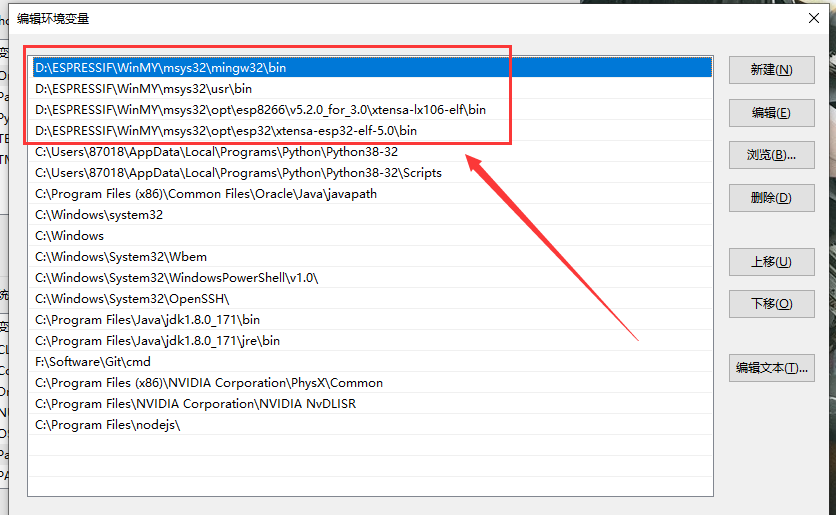
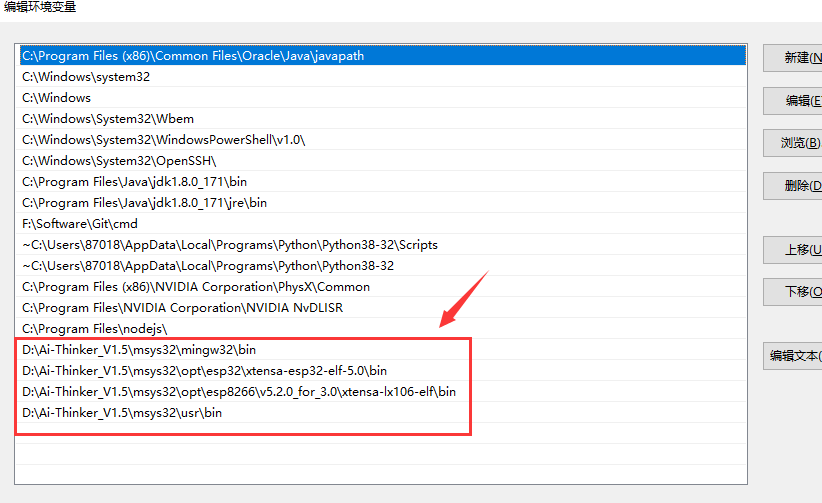
update

diff --git a/docs/2.device/configuration_windows.md b/docs/2.device/configuration_windows.md
@@ -14,20 +14,40 @@
 
 # 二 下载 IDE V1.5
 
-我们已经封装了 `ESP8266/ESP32` 的 GUI 开发环境，您只需要下载无脑式安装即可；
+&nbsp;&nbsp;&nbsp;&nbsp; 最近的百度网pan的下载速度一度再下降，为了换个方式存储IDE，所以，我们放在了群文件(最下面有加群方式)里面了。不过安装前，务必注意：
 
-安装完毕之后，我们需要添加几个环境变量到系统，下面路径根据您的安装路径有所改变：
+&nbsp;&nbsp;&nbsp;&nbsp; **第一点**：因为新版的IDE安装过程中会给电脑配置环境变量，所以，安装了**0.5或1.0**版本的朋友，请主动自行在电脑环境变量删除有关的`PATH`变量值，包含 `AiThinkerIDE_V1.0` 关键字的，比如：
 
 ```C
+Ai-Thinker\AiThinkerIDE_V1.0\msys32\mingw32\bin
+```
+&nbsp;&nbsp;&nbsp;&nbsp; **第二点**：如果是采用我司的**0.5或1.0**版本来开发的项目，需自行删除工程根目录的 **.setting** 这个文件夹，因为他里面包含一些就旧工程配置。
+
+&nbsp;&nbsp;&nbsp;&nbsp; **第三点**：环境依赖的是 python2.8 环境，而且 IDE （gui 环境）自带了 python2.8的环境的，如果你电脑有 py3 的环境，建议卸载或共存处理；
+
+---------------------------------
+
+
+&nbsp;&nbsp;&nbsp;&nbsp; 安装路径不要带中文字符或带空格:
+
+![22](../_media/quick/path_set_note.png)
+
+
+-----------------
+
+&nbsp;&nbsp;&nbsp;&nbsp; 最后，我们再次检查是否会自动添加环境变量，可以在电脑环境系统PATH变量查看仅有这几个数值即可：
+
+```c
 IDE安装路径\msys32\mingw32\bin
 IDE安装路径\WinMY\msys32\usr\bin
 IDE安装路径\WinMY\msys32\opt\esp8266\v5.2.0_for_3.0\xtensa-lx106-elf\bin
 IDE安装路径\WinMY\msys32\opt\esp32\xtensa-esp32-elf-5.0\bin
 ```
 
-最后可以在电脑环境变量查看:
 
 ![22](../_media/quick/path_set.png)
+
+-------------
 
 # 三 编译一个 RTOS 操作系统代码
 
@@ -101,3 +121,109 @@ git clone --recursive https://gitee.com/xuhongv/AiThinkerProjectForESP.git
 &nbsp;&nbsp;&nbsp;&nbsp; 烧录完毕之后，日志打印会如下所示（忽略文件夹名字）：
 
 ![在这里插入图片描述](https://img-blog.csdnimg.cn/20200212162050191.png)
+
+# 四 编译 NONOS SDK V3.0/2.1.x/2.2.x版本
+
+- 事前确定电脑环境变量是否成功`PATH`配置了如下变量(根据自己电脑路径有所差异)：
+![在这里插入图片描述](https://img-blog.csdnimg.cn/20200512170449227.png)
+
+&nbsp;&nbsp;&nbsp;&nbsp;因为很多小伙伴在玩无操作系统开发（简称 **NONOS SDK**），而此 SDK 网上有2大版本流行，分别是 3.0 为一个划分界限，而我们的IDE也支持这样的开发兼容，下面先给大家讲解如何编译**NONOS 3.0 SDK**的！经测试，从仓库下载的下载的 **2.2.x** 和 **2.1.x** 分支，都可以用这个环境编译！
+
+&nbsp;&nbsp;&nbsp;&nbsp;如果你的工程较久的话，直接参考下一节的配置。
+
+&nbsp;&nbsp;&nbsp;&nbsp;首先克隆代码，这里我依然选择为用  `git` 拉取：
+```C
+git clone https://gitee.com/xuhongv/ESP8266_NONOS_SDK
+```
+### 导入步骤：
+
+ 1. 手动删除根目录下的```driver_lib```和 ```third_party```这2个文件夹；
+ 2. 然后点击C/C++分支，选择 `Existing Code as MakeFile Project` 工程;
+ 3. 复制刚刚下载文件的 `ESP8266_NONOS_SDK`的路径，import -->  Cross Gcc , 并且去掉对应的 C++ 勾勾；如下动图所示：
+
+![在这里插入图片描述](https://img-blog.csdnimg.cn/20200211180453997.gif)
+
+---------
+
+### 编译步骤：
+
+ 1. 项目属性设置，鼠标选中项目名称右键点击，在右侧菜单中选择Properties ；
+ 2. 选择Properties --> C/C++ Build --> Build command 中添加编译规则，当前硬件是 32Mbit的模块，所以这样填：( `make COMPILE=gcc BOOT=none APP=0 SPI_SPEED=40 SPI_MODE=DIO SPI_SIZE_MAP=6` )；
+ 3. 在Properties --> C/C++ Build --> Build directory 选择编译的工程路径，比如根目录下的 IoT_Demo工程。
+ 4. 然后，就可以 清理工程 `clean Project` 和编译工程 `build Project` 了；
+ 5. 控制台输出只保留 Console ，其他一律关闭！
+
+
+![在这里插入图片描述](https://img-blog.csdnimg.cn/20200211182427313.gif)
+
+- 编译成功之后，从控制台看到：
+
+```c
+!!!
+No boot needed.
+Generate eagle.flash.bin and eagle.irom0text.bin successully in folder bin.
+eagle.flash.bin-------->0x00000
+eagle.irom0text.bin---->0x10000
+!!!
+```
+
+------------------------
+
+### 烧录
+
+&nbsp;&nbsp;&nbsp;&nbsp;从官方下载烧录工具，插上安信可出的 nodemcu 模块，选择各个 bin 文件，如下的配置，先 `ERASE` ，再 `START` 即可：
+
+![在这里插入图片描述](https://img-blog.csdnimg.cn/20200212140403889.png)
+
+&nbsp;&nbsp;&nbsp;&nbsp; 默认的打印波特率 74880 ，那么我们的电脑串口软件要支持 74880，下面以 SmarTTY 软件为例，如下打印，表示运行成功！
+![在这里插入图片描述](https://img-blog.csdnimg.cn/20200212140921601.png)
+
+# 五、编译 NONOS SDK V2.0 版本或以下
+
+&nbsp;&nbsp;&nbsp;&nbsp;上面已经讲解了如何编译 **3.0/2.2x/2.1.x**版本或以上的，这里就讲解如何编译**2.0**或更旧版本之间的代码。具体的工程也不再维护了，大家手上的应该是较久的一些版本把，比如技新课堂的教程工程等；
+
+
+&nbsp;&nbsp;&nbsp;&nbsp;我们先下载一个压缩包 `plugin_cywin` 解压到安装目录，**导入前，务必更改环境变量**，在电脑的环境变量操作如下：
+- **在PATH添加以下的环境变量**：
+
+```
+D:\Ai-Thinker_V1.5\plugin_cywin\bin
+D:\Ai-Thinker_V1.5\msys32\opt\esp8266\v4.8.2_for_2.0\bin
+```
+- **在PATH删除以下的环境变量**：
+
+```
+D:\Ai-Thinker_V1.5\msys32\opt\esp8266\v5.2.0_for_3.0\xtensa-lx106-elf\bin
+D:\Ai-Thinker_V1.5\msys32\mingw32\bin
+D:\Ai-Thinker_V1.5\msys32\opt\esp32\xtensa-esp32-elf-5.0\bin
+```
+
+&nbsp;&nbsp;&nbsp;&nbsp;之后，重启打开 eclipse 软件，导入步骤和编译步骤和之前的和导入 **Non OS 3.0**版本的一样！修改后的路径如此：
+
+
+![在这里插入图片描述](../_media/quick/path_set_nonos_2.0.png)
+
+
+
+
+# 六、常见问题
+
+## Q1 编译`gen_appbin.py`文件报错
+
+```
+"../tools/gen_appbin.py", line 55
+```
+
+- 解决方法：因为编译环境依赖的是 `py2.7` 环境，如果您的电脑是 `py3` 版本的，会造成一些语法冲突，请在eclipse编译工程的环境配置去掉 `py3` 的环境路径，再次编译即可！
+
+## Q2 编译有关`xtensa`的错误日志。
+
+- 从主分支下载的代码都是最新的编译工具链的，请确保工具链是否在eclipse编译工程的环境配置里面！比如：
+
+`~\Ai-Thinker_V1.5\msys32\opt\esp8266\v5.2.0_for_3.0\xtensa-lx106-elf\bin`
+
+## 联系方式
+
+- 扫描加钉钉交流群：
+
+![在这里插入图片描述](../_media/quick/dingding_qr.JPG ':size=300x400')

diff --git a/docs/2.device/modules_esp8266/modules_1_key_mqtt_esp8266.md b/docs/2.device/modules_esp8266/modules_1_key_mqtt_esp8266.md
@@ -1,0 +1,95 @@
+
+
+## 1 材料准备
+
+- 首先您必须具备设备端的开发环境，可以是`Linux`或者`Windows`，可参考前面的环境搭建章节！
+- NodeMCU ESP8266：https://s.click.taobao.com/u4iYujv ，板载 RGB 三色灯，但具体的按键需要自行搭建；
+- 自行搭建MQTT服务器，可在本地搭建或远程主机搭建；
+- LED一盏，使用 3~3.3V 即可；
+
+## 2 模板说明
+
+ 工程SDK：[AiThinkerProjectForESP](https://gitee.com/xuhongv/AiThinkerProjectForESP)
+
+ 源码位于：[Ai-examples/1.SmartConfig_AirKiss_To_MQTT](https://gitee.com/xuhongv/AiThinkerProjectForESP/tree/master/Ai-examples/1.SmartConfig_AirKiss_To_MQTT)
+
+ 这是可以用`esp-touch`或微信`airkiss`配网以及近场发现的功能和连接MQTT服务器的的模板demo示范！ 
+
+ 并可以远程控制 `ESP8266` 点亮一盏LED；
+ 
+ 按键接线 `GPIO0` 引脚下降沿触发，`LED`的正极接 `GPIO12`，负极接 `GND`；
+
+ 按键短按 ，改变灯具状态并上报状态到`MQTT`服务器；
+
+ 按键长按 ，进去配网模式；
+
+ - 搜索 "安信可科技" 微信公众号点击 `WiFi` 配置；
+
+ - 或者下载一键配网APP点击配置设备；
+
+
+ ### 联系方式：
+ 
+ 有任何技术问题请在这里提出：https://github.com/xuhongv/AiClouds3.0-docs/issues
+ 
+ 或邮箱联系我们：support@aithinker.com @team: Ai-Thinker Open Team 安信可开源团队
+ 
+
+## 上报指令协议
+
+- 主题：/aithinker/${设备mac地址}/devPub
+- 设备上报关灯：
+
+```
+{
+	"header": {
+		"type": "aithinker",
+		"mac": "60019421dc59"
+	},
+	"attr": [{
+		"name": "powerstate",
+		"value": "off"
+	}]
+}
+```
+
+- 主题：/aithinker/${设备mac地址}/devPub
+- 设备上报开灯：
+
+```
+{
+	"header": {
+		"type": "aithinker",
+		"mac": "60019421dc59"
+	},
+	"attr": [{
+		"name": "powerstate",
+		"value": "on"
+	}]
+}
+```
+## 控制指令
+
+- 控制开灯
+- 主题：/aithinker/${设备mac地址}/devSub
+
+```
+{
+	"msg": 1
+}
+```
+
+- 控制关灯
+- 主题：/aithinker/${设备mac地址}/devSub
+
+```
+{
+	"msg": 0
+}
+```
+
+# 联系方式
+
+- 扫描加钉钉交流群：
+
+![在这里插入图片描述](../_media/quick/dingding_qr.JPG ':size=300x400')

diff --git a/docs/1.quick/background.md b/docs/1.quick/background.md
@@ -1,12 +1,5 @@
 
-## 一、安信可开源团队负责人寄言
-
-### 为什么做 全栈IoT物联网框架？
-
-&nbsp;&nbsp;&nbsp;&nbsp; 2018年底时候，安信可开源团队创始人【半颗心脏】 已打通了天猫精灵音箱和小爱同学音箱同时控制一个 ESP8266，那时候就开始专研服务器开发，自学攻破了数据库、php语言，再到了微信公众号的生态，打通了这一整个的控制；
-
-&nbsp;&nbsp;&nbsp;&nbsp;  直到目前为止，我半颗心脏依然在走这条道路，但是随着开源其趋势不断影响，很多组织或个人奋力地做一些开源，源源不断的架构和代码封装，加快了我们程序员开发的效率，比如前端的最丰富的：
-
+## 一、为什么做全栈IoT物联网框架？
 
 &nbsp;&nbsp;&nbsp;&nbsp;  当我们日复一日年复一年的搬砖的时候，你是否曾想过提升一下开发效率，如果有一个成熟的 IoT智能家具项目模板摆在你的面前，你还会选择自己搭架构吗？
 
@@ -63,3 +56,10 @@
 1. 服务器端：采用PHP 、TP5 框架，集成 微信公众号授权 ， 云云 Oauth2.0 对接第三方语音平台目前包括天猫精灵和小爱音箱，微信用户和设备关系存储数据库使用 MySQL ;
 2. 前端：微信公众号内置网页，已在服务器端开源 Html + Css +JavaScript；
 3. 嵌入式端：首先采用 ESP32+ESP8266 C语言 SDK开发，后续可添加其他智能WiFi模块芯片；
+
+
+# 联系方式
+
+- 扫描加钉钉交流群：
+
+![在这里插入图片描述](../_media/quick/dingding_qr.JPG ':size=300x400')

diff --git a/docs/2.device/modules_esp8266/modules_2_xclouds3.0_esp8266.md b/docs/2.device/modules_esp8266/modules_2_xclouds3.0_esp8266.md
@@ -1,0 +1,34 @@
+## 1 材料准备
+
+- 首先您必须具备设备端的开发环境，可以是`Linux`或者`Windows`，可参考前面的环境搭建章节！
+- NodeMCU ESP8266：https://s.click.taobao.com/u4iYujv ，板载 RGB 三色灯，但具体的按键需要自行搭建；
+- 自行搭建MQTT服务器，可在本地搭建或远程主机搭建；
+- LED一盏，使用 3~3.3V 即可；
+
+
+## 2 模板说明
+
+ 工程SDK：[AiThinkerProjectForESP](https://gitee.com/xuhongv/AiThinkerProjectForESP)
+
+ 源码位于：[Ai-examples/2.xClouds-template](https://gitee.com/xuhongv/AiThinkerProjectForESP/tree/master/Ai-examples/2.xClouds-template)
+
+ @功能：MQTT 协议连接 AiClouds3.0 系统，可实现天猫精灵/小爱等第三方音平台控制；
+
+
+ ## 3 原理
+
+ 天猫精灵/小爱等第三方等第三方平台控制的协议适配是在 云端服务器已经完成，设备端无需关心细节，只需要按照私有协议的上报和下发即可；
+
+
+```
+                             ----->
+ 设备端出厂 ----> 用户配网绑定 ----->
+                           ∟_----->
+
+
+```
+# 联系方式
+
+- 扫描加钉钉交流群：
+
+![在这里插入图片描述](../_media/quick/dingding_qr.JPG ':size=300x400')

diff --git a/docs/_sidebar.md b/docs/_sidebar.md
@@ -9,7 +9,7 @@
   - [2.Linux环境搭建](2.device/configuration_linux)
   - [3.【必看】关于开发模板说明](2.device/modules_esp8266/modules_des)
   - [4.ESP8266模板1-按键配网连接MQTT](2.device/modules_esp8266/modules_1_key_mqtt_esp8266.md)
-  - [5.ESP8266模板2-连接安信可AiClouds3.0]()
+  - [5.ESP8266模板2-连接安信可AiClouds3.0](2.device/modules_esp8266/modules_2_xclouds3.0_esp8266.md)
   - [6.ESP8266模板3-连接阿里云物联网平台]()
   - [7.ESP8266模板4-连接阿里飞燕平台]()
   - [8.ESP8266模板5-连接天猫精灵IoT平台]()

diff --git a/docs/1.quick/quickstart.md b/docs/1.quick/quickstart.md
@@ -216,3 +216,10 @@ Access Token URL：https://aligenie.xuhongv.com/oauth/token
 ![upl-image-preview url=https://docs.ai-thinker.com/_media/aicloud/spec/%E7%B1%B3%E5%AE%B6%E5%90%8E%E5%8F%B0%E8%B0%83%E8%AF%95.jpg](https://imgconvert.csdnimg.cn/aHR0cHM6Ly9kb2NzLmFpLXRoaW5rZXIuY29tL19tZWRpYS9haWNsb3VkL3NwZWMvJUU3JUIxJUIzJUU1JUFFJUI2JUU1JTkwJThFJUU1JThGJUIwJUU4JUIwJTgzJUU4JUFGJTk1LmpwZw?x-oss-process=image/format,png)
 
 - end
+
+
+# 联系方式
+
+- 扫描加钉钉交流群：
+
+![在这里插入图片描述](../_media/quick/dingding_qr.JPG ':size=300x400')
